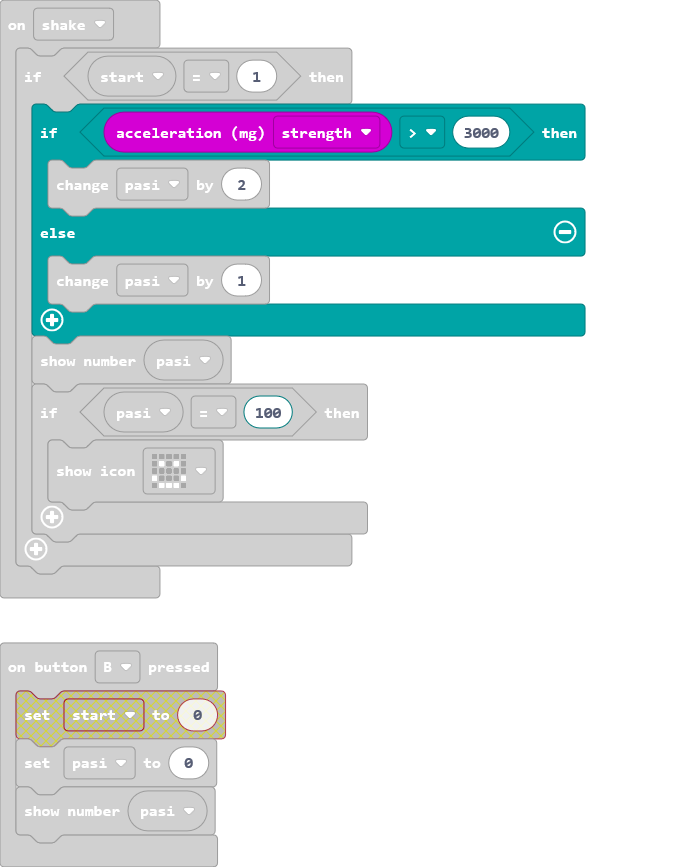
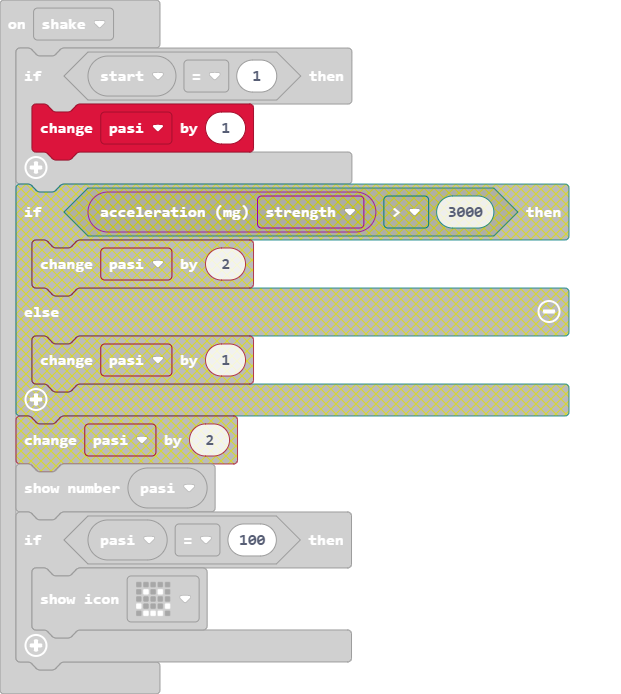
Update pxt.json, main.blocks, main.ts, main.py

diff --git a/main.ts b/main.ts
@@ -1,25 +1,24 @@
-input.onButtonPressed(Button.A, function () {
+let start = 0
+let pasi = 0
+basic.showNumber(pasi)
+input.onButtonPressed(Button.A, function on_button_pressed_a() {
+    
     start = 1
 })
-input.onButtonPressed(Button.B, function () {
+input.onButtonPressed(Button.B, function on_button_pressed_b() {
+    
     pasi = 0
     basic.showNumber(pasi)
 })
-input.onGesture(Gesture.Shake, function () {
+input.onGesture(Gesture.Shake, function on_gesture_shake() {
+    
     if (start == 1) {
-        if (input.acceleration(Dimension.Strength) > 3000) {
-            pasi += 2
-        } else {
-            pasi += 1
-        }
+        pasi += 1
         basic.showNumber(pasi)
         if (pasi == 100) {
             basic.showIcon(IconNames.Happy)
         }
+        
     }
+    
 })
-let start = 0
-let pasi = 0
-pasi = 0
-start = 0
-basic.showNumber(pasi)

diff --git a/main.py b/main.py
@@ -1,0 +1,23 @@
+start = 0
+pasi = 0
+basic.show_number(pasi)
+
+def on_button_pressed_a():
+    global start
+    start = 1
+input.on_button_pressed(Button.A, on_button_pressed_a)
+
+def on_button_pressed_b():
+    global pasi
+    pasi = 0
+    basic.show_number(pasi)
+input.on_button_pressed(Button.B, on_button_pressed_b)
+
+def on_gesture_shake():
+    global pasi
+    if start == 1:
+        pasi += 1
+        basic.show_number(pasi)
+        if pasi == 100:
+            basic.show_icon(IconNames.HAPPY)
+input.on_gesture(Gesture.SHAKE, on_gesture_shake)
